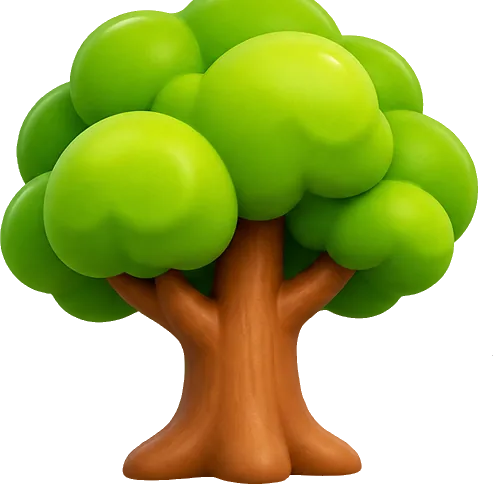
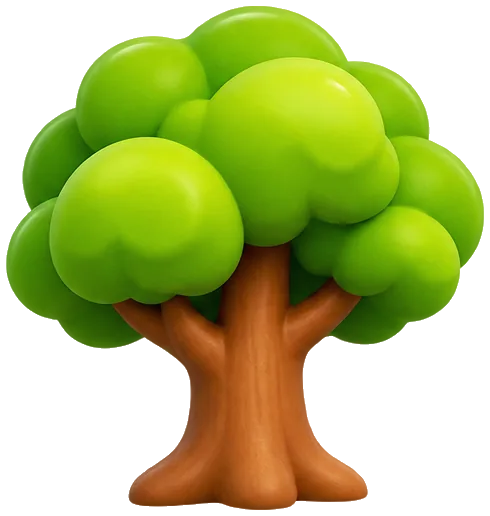
Recorta as imagens por desenho inteiro (sem cortar orelhas e pontas)

diff --git a/sw.js b/sw.js
@@ -1,4 +1,4 @@
-const V = "nhac-v4";
+const V = "nhac-v5";
 const BASE = ["./", "index.html", "manifest.json", "icon-180.png", "icon-192.png", "icon-512.png", "fotos/cachorro.jpg", "fotos/gato.jpg", "fotos/ovelha.jpg", "fotos/pato.jpg", "fotos/porco.jpg", "fotos/vaca.jpg", "img/arca.webp", "img/arcoiris.webp", "img/arvore.webp", "img/b-cachorro.webp", "img/b-gato.webp", "img/b-ovelha.webp", "img/b-pato.webp", "img/b-porco.webp", "img/b-vaca.webp", "img/biblia.webp", "img/coracao.webp", "img/estrela.webp", "img/jonas-barco.webp", "img/jonas.webp", "img/lua.webp", "img/menino.webp", "img/moita.webp", "img/nhac-come.webp", "img/nhac-dorme.webp", "img/nhac.webp", "img/passaro.webp", "img/pedra.webp", "img/peixao-aberto.webp", "img/peixao.webp", "img/peixe.webp", "img/rato-dorme.webp", "img/rato.webp", "img/sol.webp"];
 self.addEventListener("install", e => { e.waitUntil(caches.open(V).then(c => c.addAll(BASE)).then(() => self.skipWaiting())); });
 self.addEventListener("activate", e => { e.waitUntil(caches.keys().then(ks => Promise.all(ks.filter(k => k !== V).map(k => caches.delete(k)))).then(() => self.clients.claim())); });

diff --git a/index.html b/index.html
@@ -223,7 +223,7 @@ body.junto .titulo-cena{top:calc(14vmin + env(safe-area-inset-top))}
 .bg-mar{background:linear-gradient(180deg,#D9F3FF 0%,#fff 70%)}
 .arca{position:absolute;right:6vw;bottom:12%;width:min(56vmin,540px);z-index:3}
 .arca.flutua{animation:flutua 2s ease-in-out infinite}
-.arca{aspect-ratio:600/367}
+.arca{aspect-ratio:640/394}
 .arca .portinha{position:absolute;left:46.5%;top:23%;width:19.5%;height:35%;border-radius:45% 45% 6px 6px/30% 30% 6px 6px;background:linear-gradient(90deg,#B8692E,#D98A45 50%,#B8692E);box-shadow:inset 0 0 0 4px #8B4A1E;opacity:0;transition:opacity .4s}
 .arca.fechada .portinha{opacity:1}
 .agua{position:absolute;left:0;right:0;bottom:0;height:0;background:linear-gradient(#6FC8FF,#2A8BE0);transition:height 2s ease;z-index:2}
